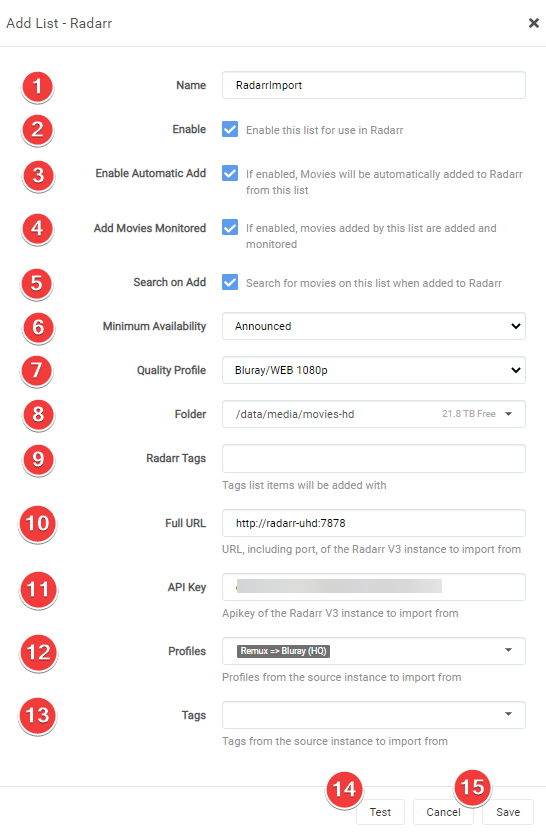
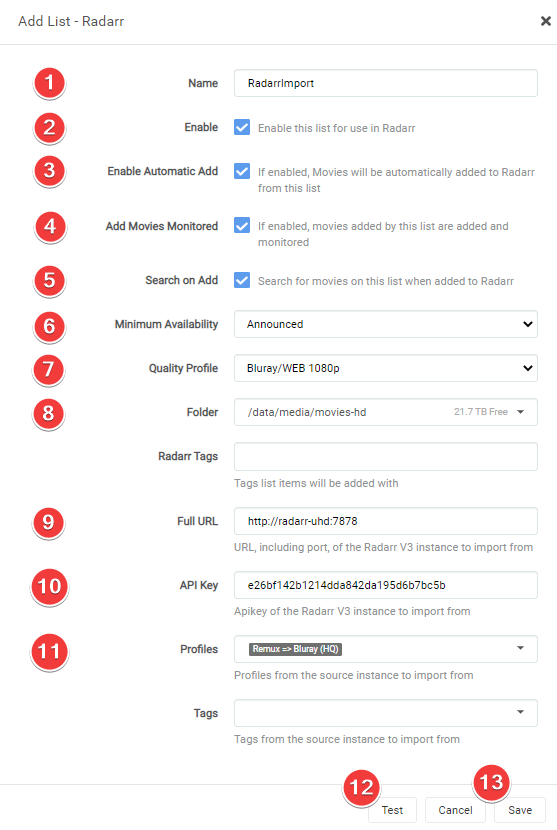
- Added: Option 2
- Added: Option 2

diff --git a/docs/Radarr/Tips/Sync-2-radarr-sonarr.md b/docs/Radarr/Tips/Sync-2-radarr-sonarr.md
@@ -5,7 +5,7 @@ In this Guide I will try to explain how you can sync 2 Radarr/Sonarr with each o
 I'm going to show 2 different options how you can setup your sync with 2 Radarr/Sonarr.
 
 - Option 1: This option is best used if you want a 1:1 copy of your Radarr/Sonarr instances
-- Option 2: This option is best used if you only want to have a few Movies/TV shows as 4K/2160p (UHD)
+- Option 2: This option is best used if you only want to have a few Movies/TV Shows as 4K/2160p (UHD)
 
 !!! error ""
     I'm not going to explain how to set up 2 Radarr/Sonarr for your system, being it depends how you have it installed/running.
@@ -58,11 +58,9 @@ Then you get a screen with the following options.
 1. When Radarr shall consider a movie is available.
 1. The Quality Profile you want to use on `Radarr 2`.
 1. Your Root location for your media library.
-1. If you want items added to have a tag.
 1. The Full URL to `Radarr 1` (Use local URL if they run on the same system).
 1. Your API Key of `Radarr 1`.
 1. Which Profile of `Radarr 1` you want to Sync with `Radarr 2`.
-1. Tags from source instance to import from.
 1. Test the connection to `Radarr 1`.
 1. Save your settings.
 
@@ -78,11 +76,11 @@ Then you get a screen with the following options.
 
 `Settings` => `Download Clients`
 
-![Radarr - Settings Download Clients](images/radarr-settings-download-clients.png)
+![!Radarr - Settings Download Clients](images/radarr-settings-download-clients.png)
 
 Select your preferred download client.
 
-![Radarr - Settings Download Clients Categories](images/radarr-settings-download-clients-categories.png)
+![!Radarr - Settings Download Clients Categories](images/radarr-settings-download-clients-categories.png)
 
 Only thing you need to change/create is a separate `Category` that you're going to use for `Radarr 2`
 
@@ -96,7 +94,7 @@ You now only need to make use of `Radarr 1` all movies your add to `Radarr 1` wi
 
 #### 1080p streaming optimized
 
-??? faq "1080p streaming optimized quality profile"
+??? faq "1080p streaming optimized quality profile - [CLICK TO EXPAND]"
 
     If you're interested in the 1080p streaming optimized quality profile you can contact me on [discord](https://trash-guides.info/discord)
 
@@ -126,47 +124,60 @@ You now only need to make use of `Radarr 1` all movies your add to `Radarr 1` wi
     - `Sonarr 1` = My main 1080p WEB-DL Sonarr.
     - `Sonarr 2` = 4K/2160p (UHD) WEB-DL Sonarr.
 
-    This option is best used if you only want to have a few Movies/TV shows as 4K/2160p (UHD)
+    This option is best used if you only want to have a few TV shows (or a Movies if you use this option with Radarr) as 4K/2160p (UHD)
 
 #### Extra preparation
 
 In `Sonarr 1` go to `Settings` => `Profiles`
 
-![!Sonarr - Settings - Profiles](images/Sonarr-settings-profiles.png)
+![!Sonarr - Settings - Profiles](images/sonarr-settings-profiles.png)
 
 And Clone your used profile and rename your profile from `Profilename - Copy` to `Profilename!`
 
-![!Sonarr - Clone Profile](images/Sonarr-clone-profile.png)
+![!Sonarr - Clone Profile](images/sonarr-clone-profile.png)
 
 #### Adding the Sonarr Sync list
 
-In `Sonarr 2` go to `Settings` => `Lists`
+In `Sonarr 2` go to `Settings` => `Import Lists`
 
-![!Sonarr Settings Lists](images/image-20211219203914161.png)
+![!Sonarr Settings Import Lists](images/sonarr-settings-import-lists.png)
 
 Click on the + to add a lists and select `Radarr`
 
-!Sonarr add List](images/image-20211219204256765.png)
+![!Sonarr add List](images/sonarr-add-list.png)
 
 Then you get a screen with the following options.
 
-![Sonarr Add Lists Options](images/image-20211219210050924.png)
+![!Sonarr Add Lists Options](images/sonarr-add-lists-options.png)
 
 1. The name you want to call your Sync list.
-1. Enable to Enable the list.
-1. Enable so the movies will be automatically added.
-1. Enable so the movies will be added and monitored (if disabled then there will be no search done for the movies).
-1. Enable so when added Radarr will perform a search.
-1. The Minimum Availability you prefer.
-1. The Quality Profile you want to use on `Sonarr 2`.
+1. Enable so the shows will be automatically added.
+1. Choose your monitoring options.
 1. Your Root location for your media library.
-1. If you want items added to have a tag.
+1. The Quality Profile you want to use on `Sonarr 2`.
+1. Series Type.
+1. If you want to use Season Folders.
 1. The Full URL to `Sonarr 1` (Use local URL if they run on the same system).
 1. Your API Key of `Sonarr 1`.
-1. Which Profile of `Sonarr 1` you want to Sync with `Sonarr 2`.
-1. Tags from source instance to import from.
+1. The Cloned Profile of `Sonarr 1` that we're going to use to Sync with `Sonarr 2`.
 1. Test the connection to `Sonarr 1`.
 1. Save your settings.
+
+??? FAQ "Monitoring Options - [CLICK TO EXPAND]"
+
+    - All Episodes: Monitor all episodes except specials
+    - Future Episodes: Monitor episodes that have not aired yet
+    - Missing Episodes: Monitor episodes that do not have files or have not aired yet
+    - Existing Episodes: Monitor episodes that have files or have not aired yet
+    - First Season: Monitor all episodes of the first season. All other seasons will be ignored
+    - Latest Season: Monitor all episodes of the latest season and future seasons
+    - None: No episodes will be monitored
+
+??? FAQ "Series Type - [CLICK TO EXPAND]"
+
+    - Anime: Episodes released using an absolute episode number
+    - Daily: Episodes released daily or less frequently that use year-month-day (2017-05-25)
+    - Standard: Episodes released with SxxEyy pattern
 
 #### Sonarr Download client setup
 
@@ -174,14 +185,18 @@ Then you get a screen with the following options.
 
 `Settings` => `Download Clients`
 
-![Sonarr - Settings Download Clients](images/image-20211219211958715.png)
+![!Sonarr - Settings Download Clients](images/sonarr-settings-download-clients.png)
 
 Select your preferred download client.
 
-![Sonarr Category's](images/image-20211219213741404.png)
+![!Sonarr Categories](images/sonarr-categories.png)
 
 Only thing you need to change/create is a separate `Category` that you're going to use for `Sonarr 2`
 
 !!! important
 
     This can't and shouldn't be the same category you use for `Sonarr 1` but a separate `Category`.
+
+### How does this Sonarr Sync work
+
+You now only need to make use of `Sonarr 1`, When you got a TV Shows (or a Movie if you use this option with Radarr) that you also want as 4K/2160p (UHD) then you make sure you make use of the Cloned Quality Profile.
